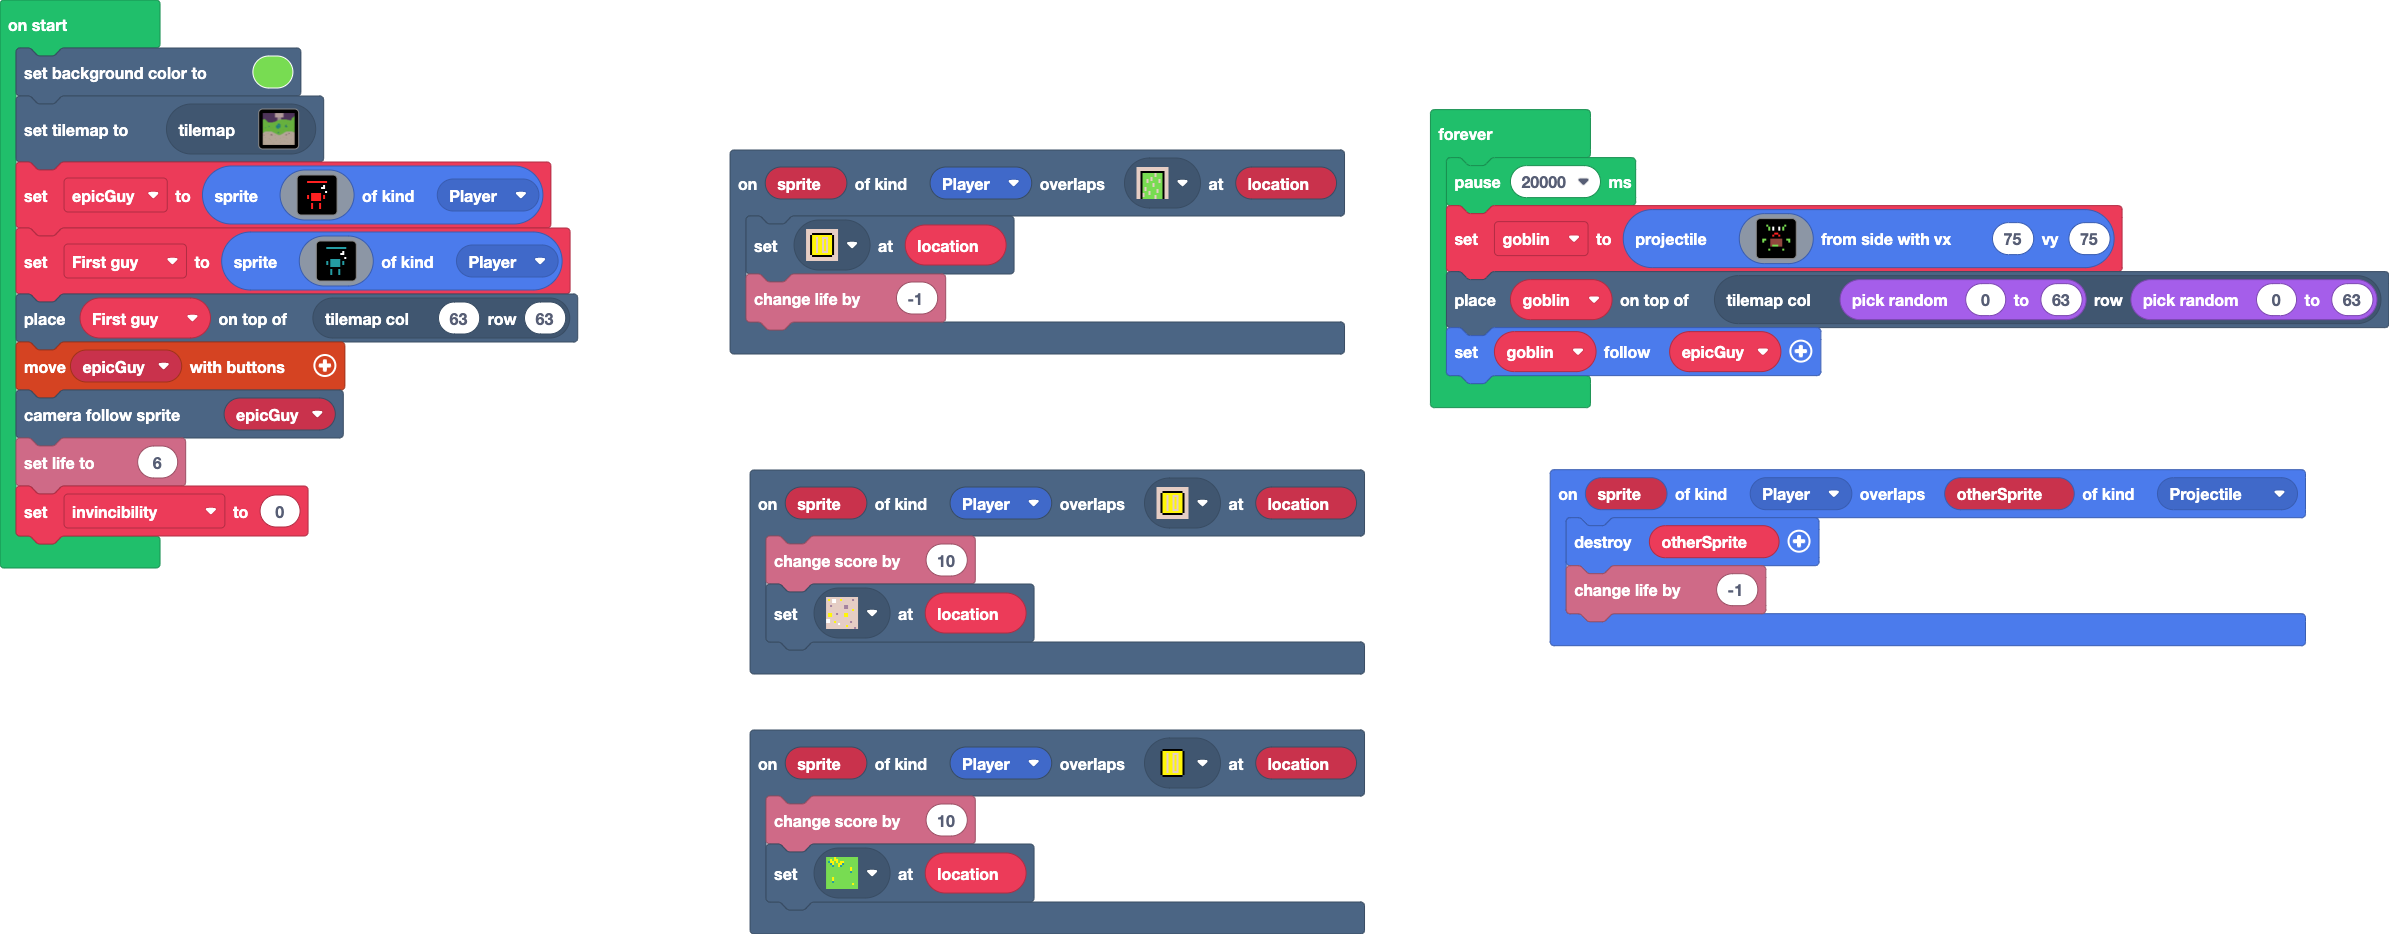
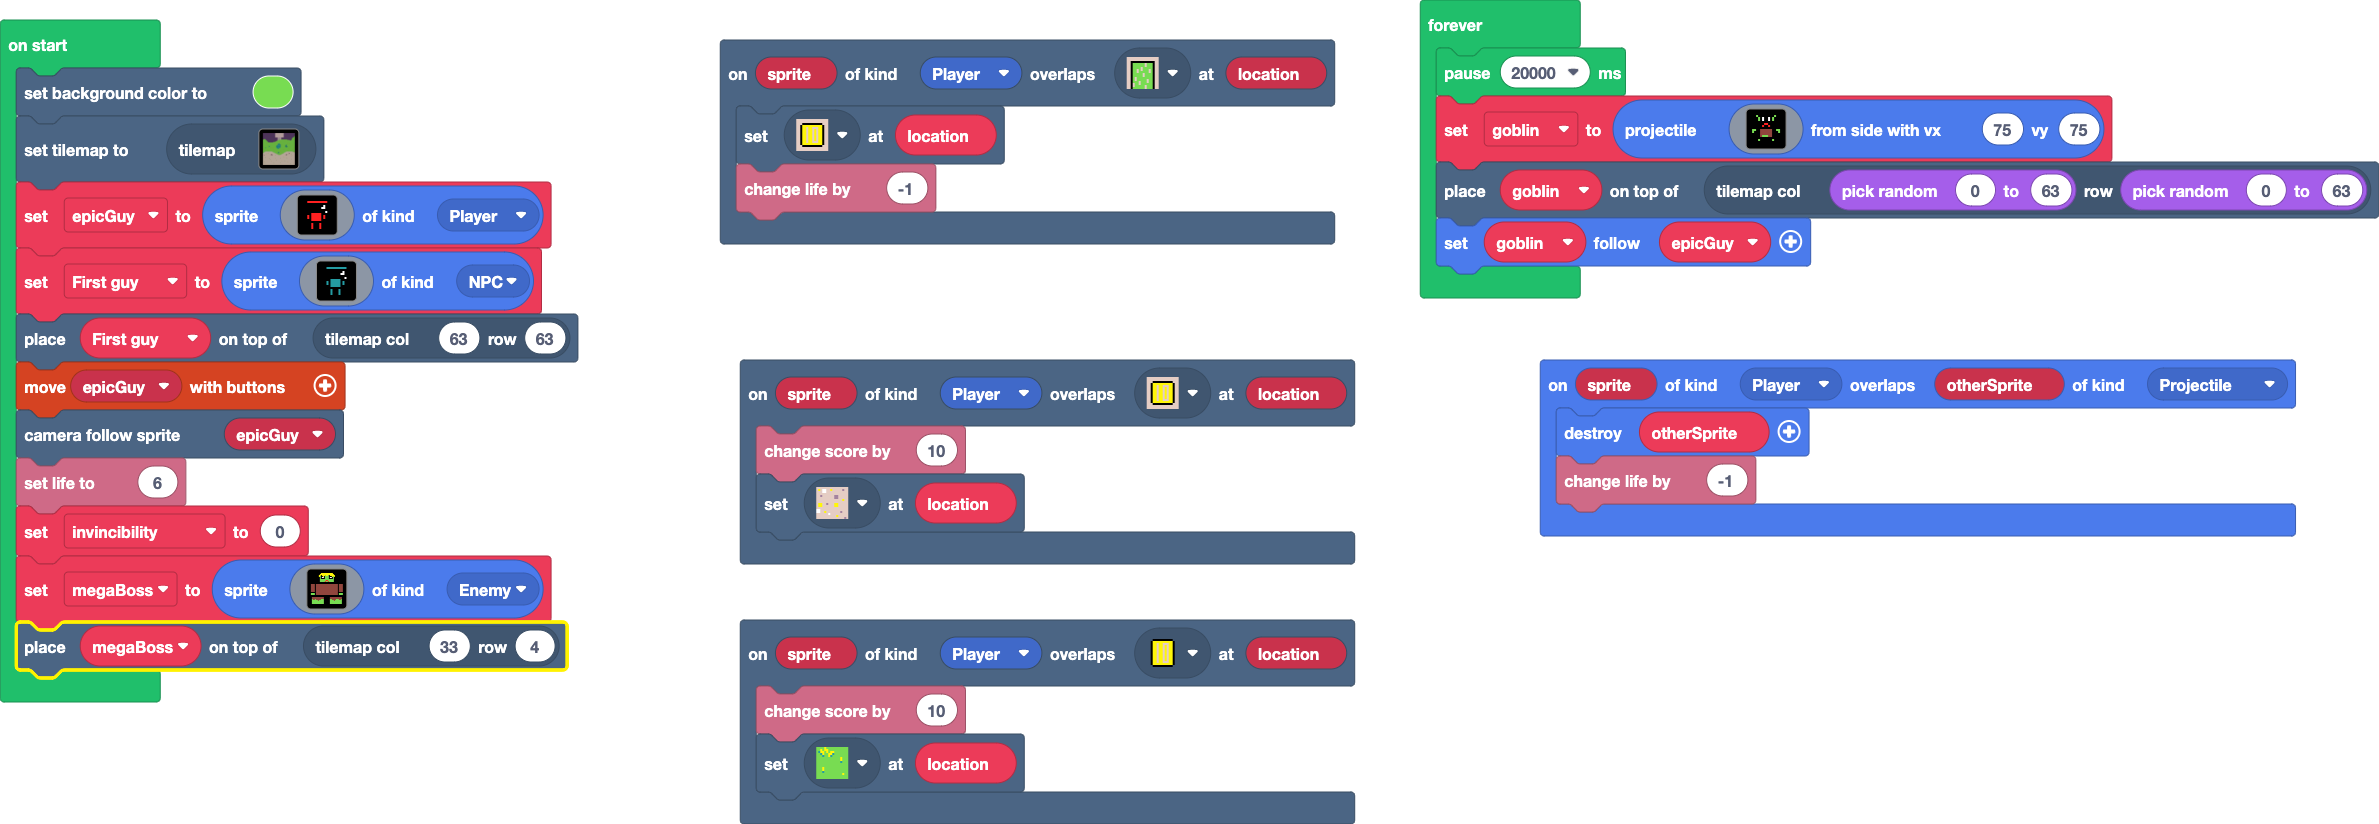
Update main.blocks, main.ts, images.g.jres, images.g.ts

diff --git a/images.g.ts b/images.g.ts
@@ -22,6 +22,41 @@ f f f . f e e e e e e f . f f f
 f f f f f f . . . . f f f f f f 
 f f f f f f . . . . f f f f f f 
 `;
+            case "image2":
+            case "bigTroll":return img`
+..........555555555555..........
+.........55555555555555.........
+........55f5557557f55555........
+........57ff5f7777fff575........
+........f7f11f7777f11f7f........
+........f7ffff7777ffff7f........
+........f77777777777777f........
+........f77777722777777f........
+........f77777277277777f........
+........ffffffffffffffff........
+ffffffffffffffffffffffffffffffff
+eeeefeeeeeeeeeeeeeeeeeeeeeefeeee
+eeeefeeeeeeeeeeeeeeeeeeeeeefeeee
+eeeefeeeeeeeeeeeeeeeeeeeeeefeeee
+eeeefeeeeeeeeeeeeeeeeeeeeeefeeee
+eeeefeeeeeeeeeeeeeeeeeeeeeefeeee
+eeeefeeeeeeeeeeeeeeeeeeeeeefeeee
+eeeefeeeeeeeeeeeeeeeeeeeeeefeeee
+eeeefeeeeeeeeeeeeeeeeeeeeeefeeee
+fffffeeeeeeeeeeeeeeeeeeeeeefffff
+7777feeeeeeeeeeeeeeeeeeeeeef7777
+7777feeeeeeeeeeeeeeeeeeeeeef7777
+ffffffffffffffffffffffffffffffff
+ffffffffffffffffffffffffffffffff
+feeeeeeeeeeeef....feeeeeeeeeeeef
+feeeeeeeeeeeef....feeeeeeeeeeeef
+f7ee7eeeee777f....f77eeee777ee7f
+f777777e77777f....f7777e7777777f
+f777777777777f....f777777777777f
+f777777777777f....f777777777777f
+f777777777777f....f777777777777f
+ffffffffffffff....ffffffffffffff
+`;
         }
         return null;
     })

diff --git a/main.ts b/main.ts
@@ -1,3 +1,6 @@
+namespace SpriteKind {
+    export const NPC = SpriteKind.create()
+}
 scene.onOverlapTile(SpriteKind.Player, assets.tile`myTile6`, function (sprite, location) {
     info.changeScoreBy(10)
     tiles.setTileAt(location, assets.tile`myTile2`)
@@ -52,12 +55,14 @@ let First_guy = sprites.create(img`
     . . . . f 6 f . f 6 f . . . . . 
     . . . . f 6 f . f 6 f . . . . . 
     . . . . f f f . f f f . . . . . 
-    `, SpriteKind.Player)
+    `, SpriteKind.NPC)
 tiles.placeOnTile(First_guy, tiles.getTileLocation(63, 63))
 controller.moveSprite(epicGuy)
 scene.cameraFollowSprite(epicGuy)
 info.setLife(6)
 let invincibility = 0
+let megaBoss = sprites.create(assets.image`bigTroll`, SpriteKind.Enemy)
+tiles.placeOnTile(megaBoss, tiles.getTileLocation(33, 4))
 forever(function () {
     pause(20000)
     goblin = sprites.createProjectileFromSide(assets.image`Goblin`, 75, 75)
